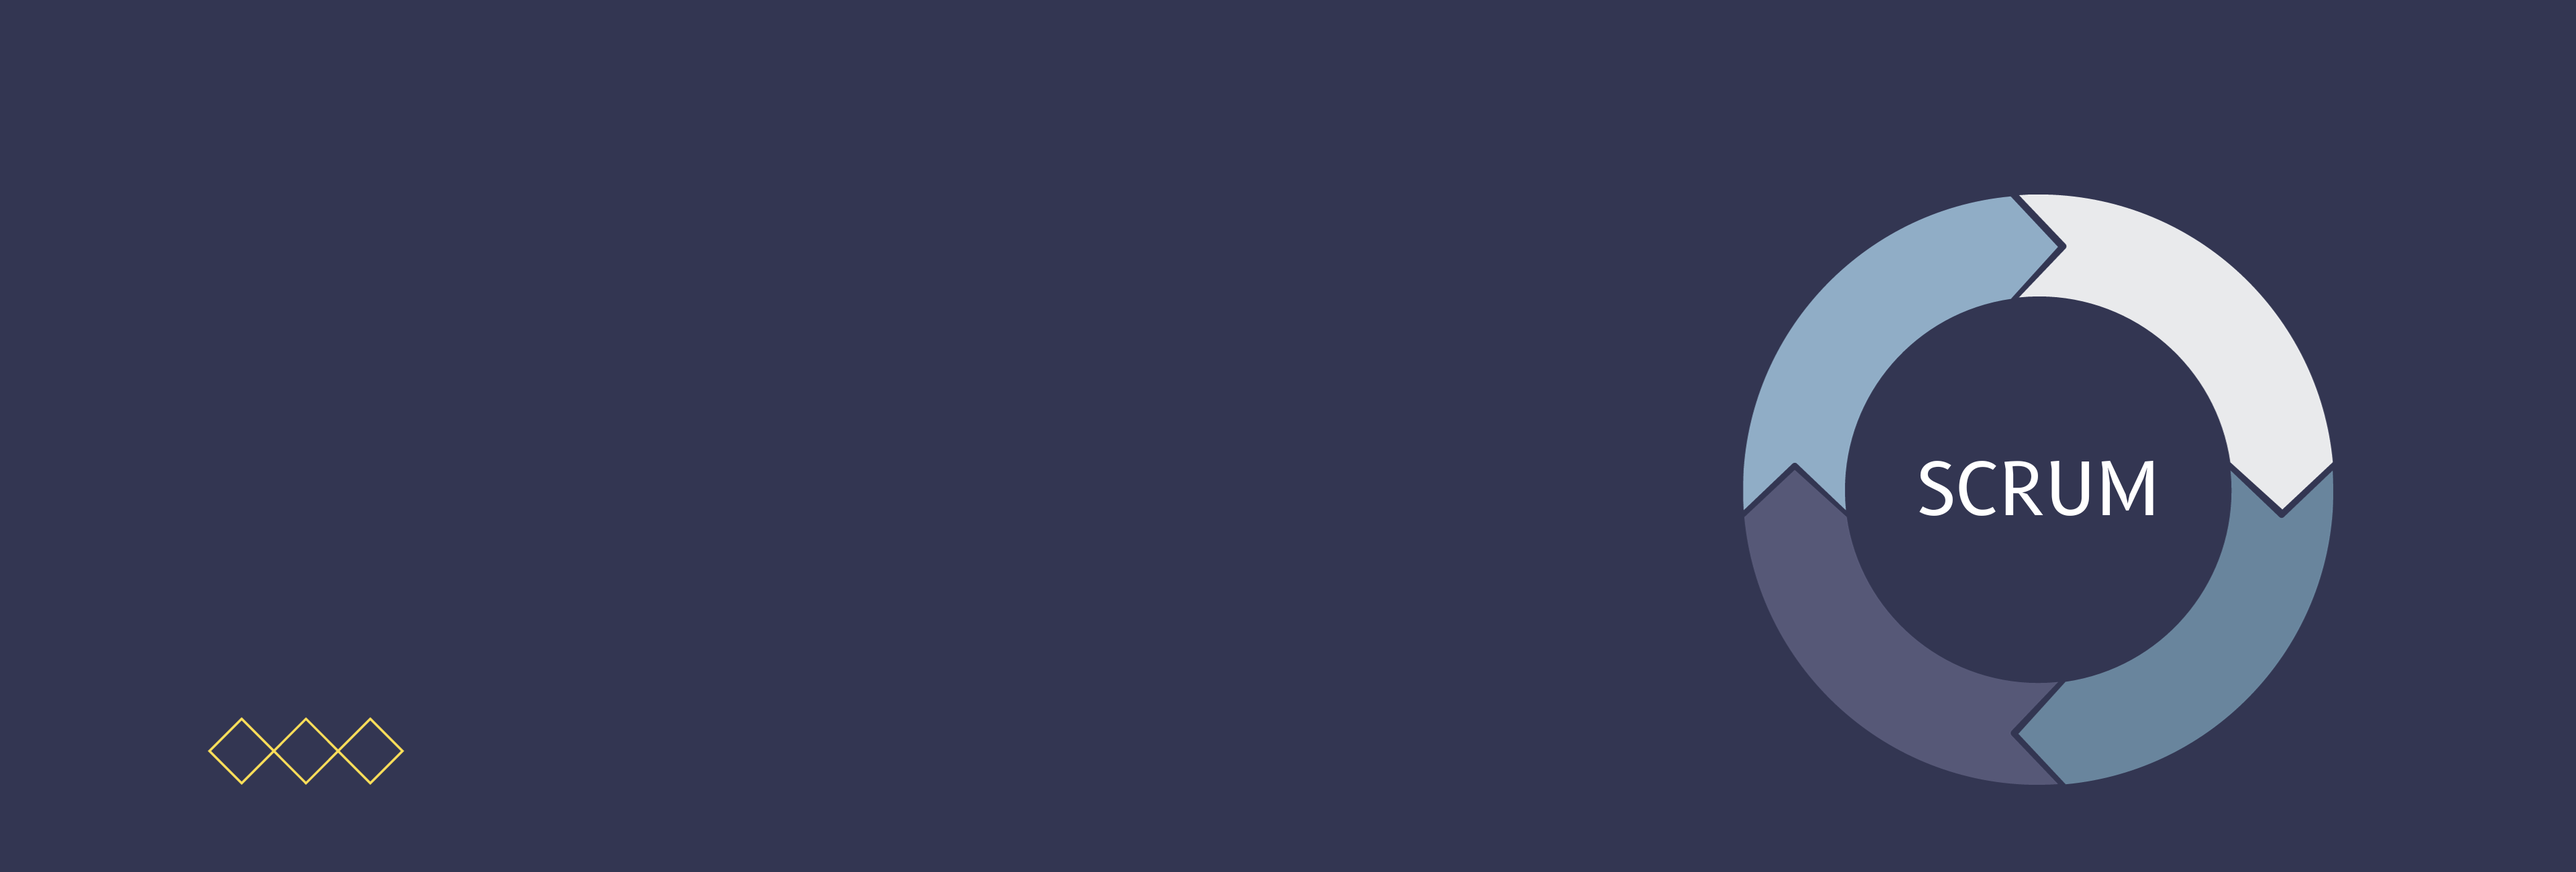
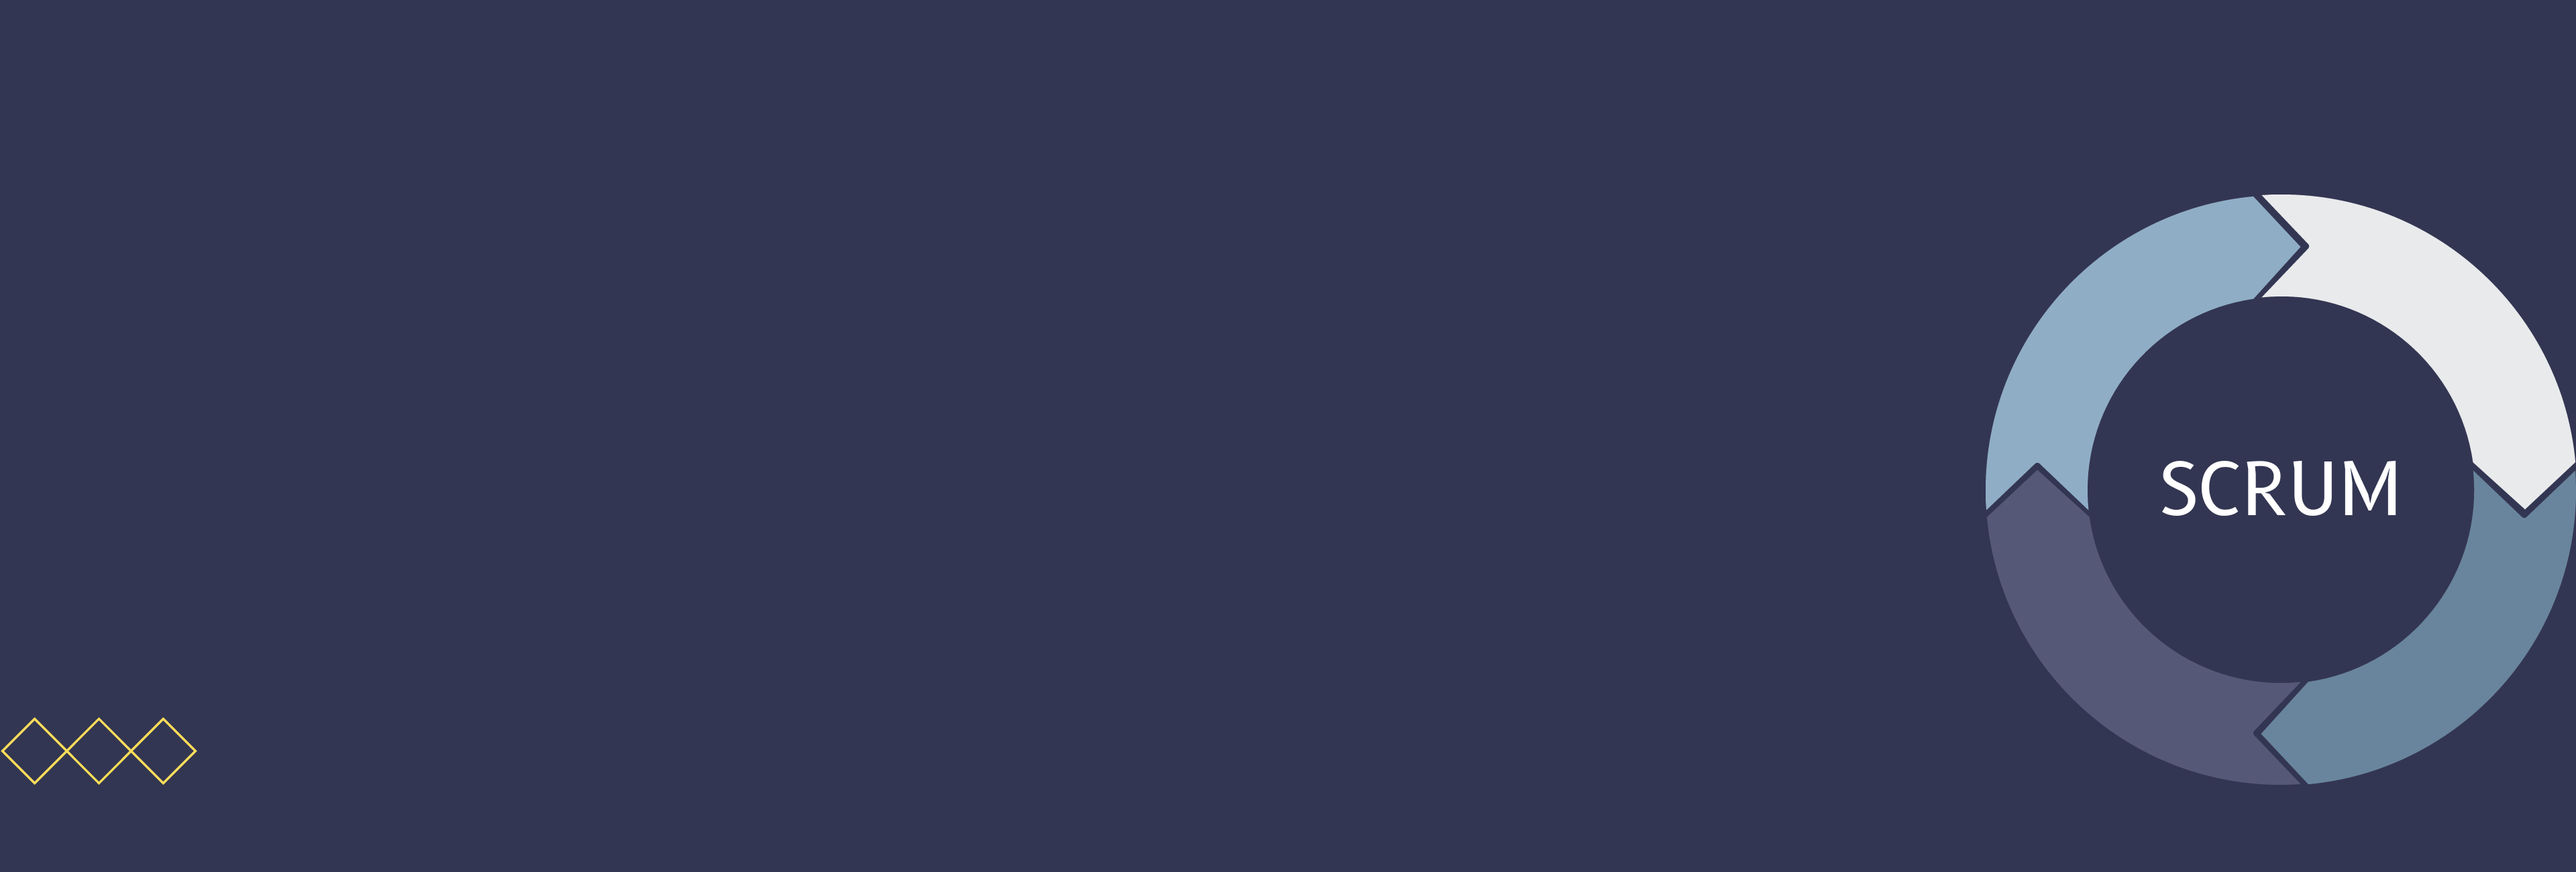
update grid home

Changed region(s): [[0.6562, 0.2154, 1.0, 0.9231], [0.0, 0.8308, 0.1562, 0.8923]]

diff --git a/src/templates/home.html b/src/templates/home.html
@@ -5,8 +5,14 @@
 
 {% endblock %} 
 {% block content %}
+
+
 <!-- Imagem home -->
-<div class="container_img" >
+<div class="container_fluid">
+    <div class="row">
+        <div style="background-color:#333652;" class="col"></div>
+
+     <div class="col-10 p-0"> 
     <div class="img-container">
     <img src="../static/img/home_1.png" class="img-fluid" alt="Metodologia Ágil" />
     <!-- texto -->
@@ -15,12 +21,24 @@
         <p class="fs-6" style="color: white;">
             A Metodologia Ágil permite entregas contínuas, promovendo ajustes rápidos e direcionados às necessidades do cliente. 
         </p>
-        
-
     </div>
     </div>
+    </div>
+    <div style="background-color: #333652;" class="col"></div>
 </div>
+ 
 
+<!-- <div class="row">
+    <div class="col">
+      1 of 3
+    </div>
+    <div class="col-5">
+      2 of 3 (wider)
+    </div>
+    <div class="col">
+      3 of 3
+    </div>
+  </div> -->
 
 
 

diff --git a/src/static/po.css b/src/static/po.css
@@ -29,32 +29,26 @@
   padding: 2%;
 }
 
-.container_img {
-  text-align: center;
-}
+
 
 .img-container {
   position: relative;
-  max-width: 100%;
-  margin: 0 auto;
 }
 
-.img-container img {
-  max-width: 100%;
-  height: auto;
-}
+
 
 .text-overlay {
+  display: flex;
+  justify-content: start;
+  flex-direction: column;
   margin: 0px 0px;
+  top: 40%;
   position: absolute;
-  top: 50%;
-  left: 39%;
-  transform: translate(-50%, -50%);
   text-align: start;
   max-width: 75%;
   padding: 0px 0px;
-  
 }
+
 
 
 .text-overlay h1{
@@ -101,7 +95,6 @@
   gap: 2%;
   margin-top: 2%;
   margin-left: 5%;
- 
 
 
 }
